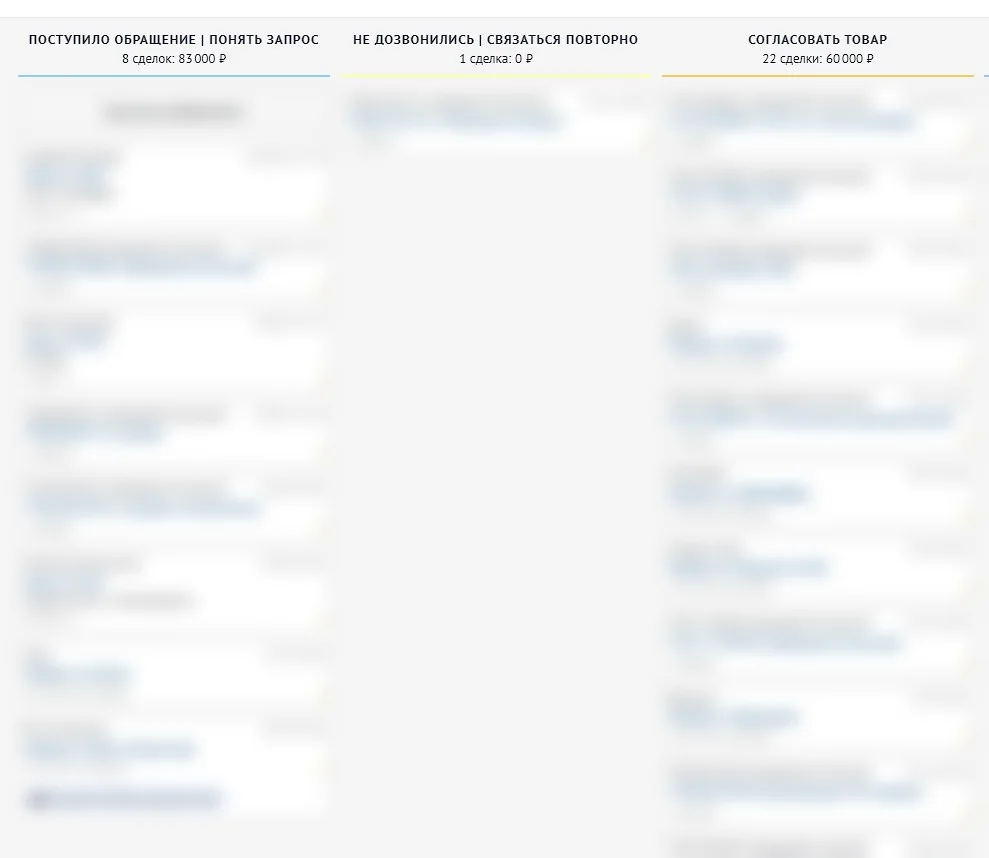
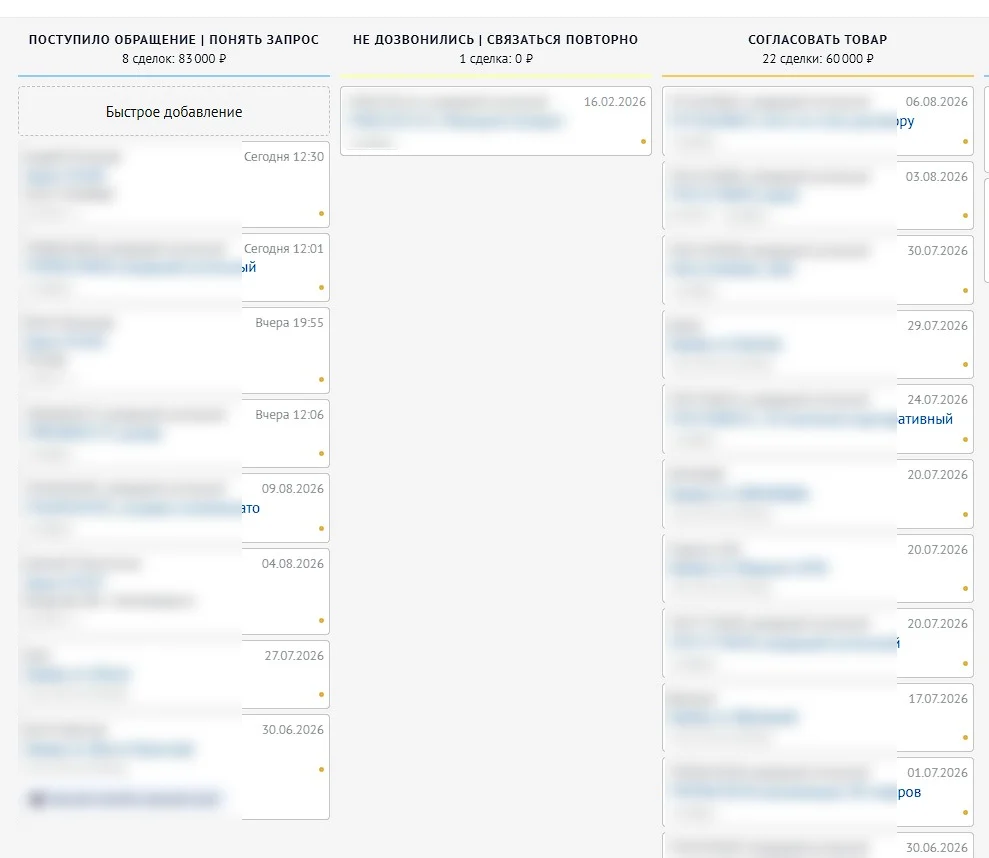
Все снимки аналитики в кейсах, размытие только по именам и телефонам
- кейс 01: пять снимков — общий дашборд позиций, запросы «автокран»,
  группы «автокран 32» и «автокран 25», лента входящих заявок
- кейс 02: шесть — позиции и их продолжение, подарочные запросы и подарки
  руководителю, трафик из поиска, воронка сделок
- размытие на воронке сделок переделано: закрыта только левая часть
  карточек, где стоят имена и телефоны. Даты, суммы, метки и сводка по
  столбцам остались резкими — раньше был размыт весь экран и смысла в
  снимке не оставалось

Не публикуется только снимок со стоимостью лида в кейсе 01 — ждёт согласия
клиента.

diff --git a/index.html b/index.html
@@ -567,15 +567,23 @@
         <span class="caps caps--16 muted">ЧТО ПОКАЗЫВАЕТ АНАЛИТИКА</span>
         <div class="shot__thumbs" role="tablist" aria-label="Снимки аналитики">
           <button class="shot__thumb is-active" role="tab" aria-selected="true" data-shot="0">позиции в поиске</button>
-          <button class="shot__thumb" role="tab" aria-selected="false" data-shot="1">группа «автокран 32»</button>
-          <button class="shot__thumb" role="tab" aria-selected="false" data-shot="2">входящие заявки</button>
+          <button class="shot__thumb" role="tab" aria-selected="false" data-shot="1">запросы «автокран»</button>
+          <button class="shot__thumb" role="tab" aria-selected="false" data-shot="2">группа «автокран 32»</button>
+          <button class="shot__thumb" role="tab" aria-selected="false" data-shot="3">группа «автокран 25»</button>
+          <button class="shot__thumb" role="tab" aria-selected="false" data-shot="4">входящие заявки</button>
         </div>
       </div>
       <button class="shot__img is-active" data-zoom="img/case01-pos.webp" aria-label="Увеличить снимок">
         <img src="img/case01-pos.webp" alt="Дашборд позиций: видимость, средняя и медианная позиция по запросам аренды спецтехники" loading="lazy">
       </button>
+      <button class="shot__img" data-zoom="img/case01-avtokran-obshiy.webp" aria-label="Увеличить снимок">
+        <img src="img/case01-avtokran-obshiy.webp" alt="Позиции по запросам «аренда автокрана», в том числе 50 и 100 тонн" loading="lazy">
+      </button>
       <button class="shot__img" data-zoom="img/case01-avtokran.webp" aria-label="Увеличить снимок">
         <img src="img/case01-avtokran.webp" alt="Позиции по группе запросов «автокран 32» по неделям" loading="lazy">
+      </button>
+      <button class="shot__img" data-zoom="img/case01-avtokran25.webp" aria-label="Увеличить снимок">
+        <img src="img/case01-avtokran25.webp" alt="Позиции по группе запросов «автокран 25» по неделям" loading="lazy">
       </button>
       <button class="shot__img" data-zoom="img/case01-zayavki.webp" aria-label="Увеличить снимок">
         <img src="img/case01-zayavki.webp" alt="Лента входящих обращений: источник, дата, менеджер и запрошенная техника" loading="lazy">
@@ -613,22 +621,30 @@
         <span class="caps caps--16 muted">ЧТО ПОКАЗЫВАЕТ АНАЛИТИКА</span>
         <div class="shot__thumbs" role="tablist" aria-label="Снимки аналитики">
           <button class="shot__thumb is-active" role="tab" aria-selected="true" data-shot="0">позиции в поиске</button>
-          <button class="shot__thumb" role="tab" aria-selected="false" data-shot="1">подарочные запросы</button>
-          <button class="shot__thumb" role="tab" aria-selected="false" data-shot="2">трафик</button>
-          <button class="shot__thumb" role="tab" aria-selected="false" data-shot="3">сделки</button>
+          <button class="shot__thumb" role="tab" aria-selected="false" data-shot="1">позиции, продолжение</button>
+          <button class="shot__thumb" role="tab" aria-selected="false" data-shot="2">подарочные запросы</button>
+          <button class="shot__thumb" role="tab" aria-selected="false" data-shot="3">подарки руководителю</button>
+          <button class="shot__thumb" role="tab" aria-selected="false" data-shot="4">трафик</button>
+          <button class="shot__thumb" role="tab" aria-selected="false" data-shot="5">сделки</button>
         </div>
       </div>
       <button class="shot__img is-active" data-zoom="img/case02-pos.webp" aria-label="Увеличить снимок">
         <img src="img/case02-pos.webp" alt="Дашборд позиций интернет-магазина моделей кораблей" loading="lazy">
       </button>
+      <button class="shot__img" data-zoom="img/case02-pos2.webp" aria-label="Увеличить снимок">
+        <img src="img/case02-pos2.webp" alt="Продолжение таблицы позиций по запросам о подарках" loading="lazy">
+      </button>
       <button class="shot__img" data-zoom="img/case02-podarki.webp" aria-label="Увеличить снимок">
         <img src="img/case02-podarki.webp" alt="Позиции по подарочным запросам: подарок начальнику, руководителю, директору" loading="lazy">
+      </button>
+      <button class="shot__img" data-zoom="img/case02-podarki2.webp" aria-label="Увеличить снимок">
+        <img src="img/case02-podarki2.webp" alt="Позиции по запросам о подарках директору и генеральному директору" loading="lazy">
       </button>
       <button class="shot__img" data-zoom="img/case02-trafik.webp" aria-label="Увеличить снимок">
         <img src="img/case02-trafik.webp" alt="Клики из поиска по неделям: Яндекс, Google и прочие источники" loading="lazy">
       </button>
       <button class="shot__img" data-zoom="img/case02-zayavki.webp" aria-label="Увеличить снимок">
-        <img src="img/case02-zayavki.webp" alt="Воронка сделок: обращения, повторные звонки и согласование товара. Данные покупателей закрыты" loading="lazy">
+        <img src="img/case02-zayavki.webp" alt="Воронка сделок: обращения, повторные звонки и согласование товара. Имена и телефоны покупателей закрыты" loading="lazy">
       </button>
     </div>
     <hr class="rule rule--dotted">
